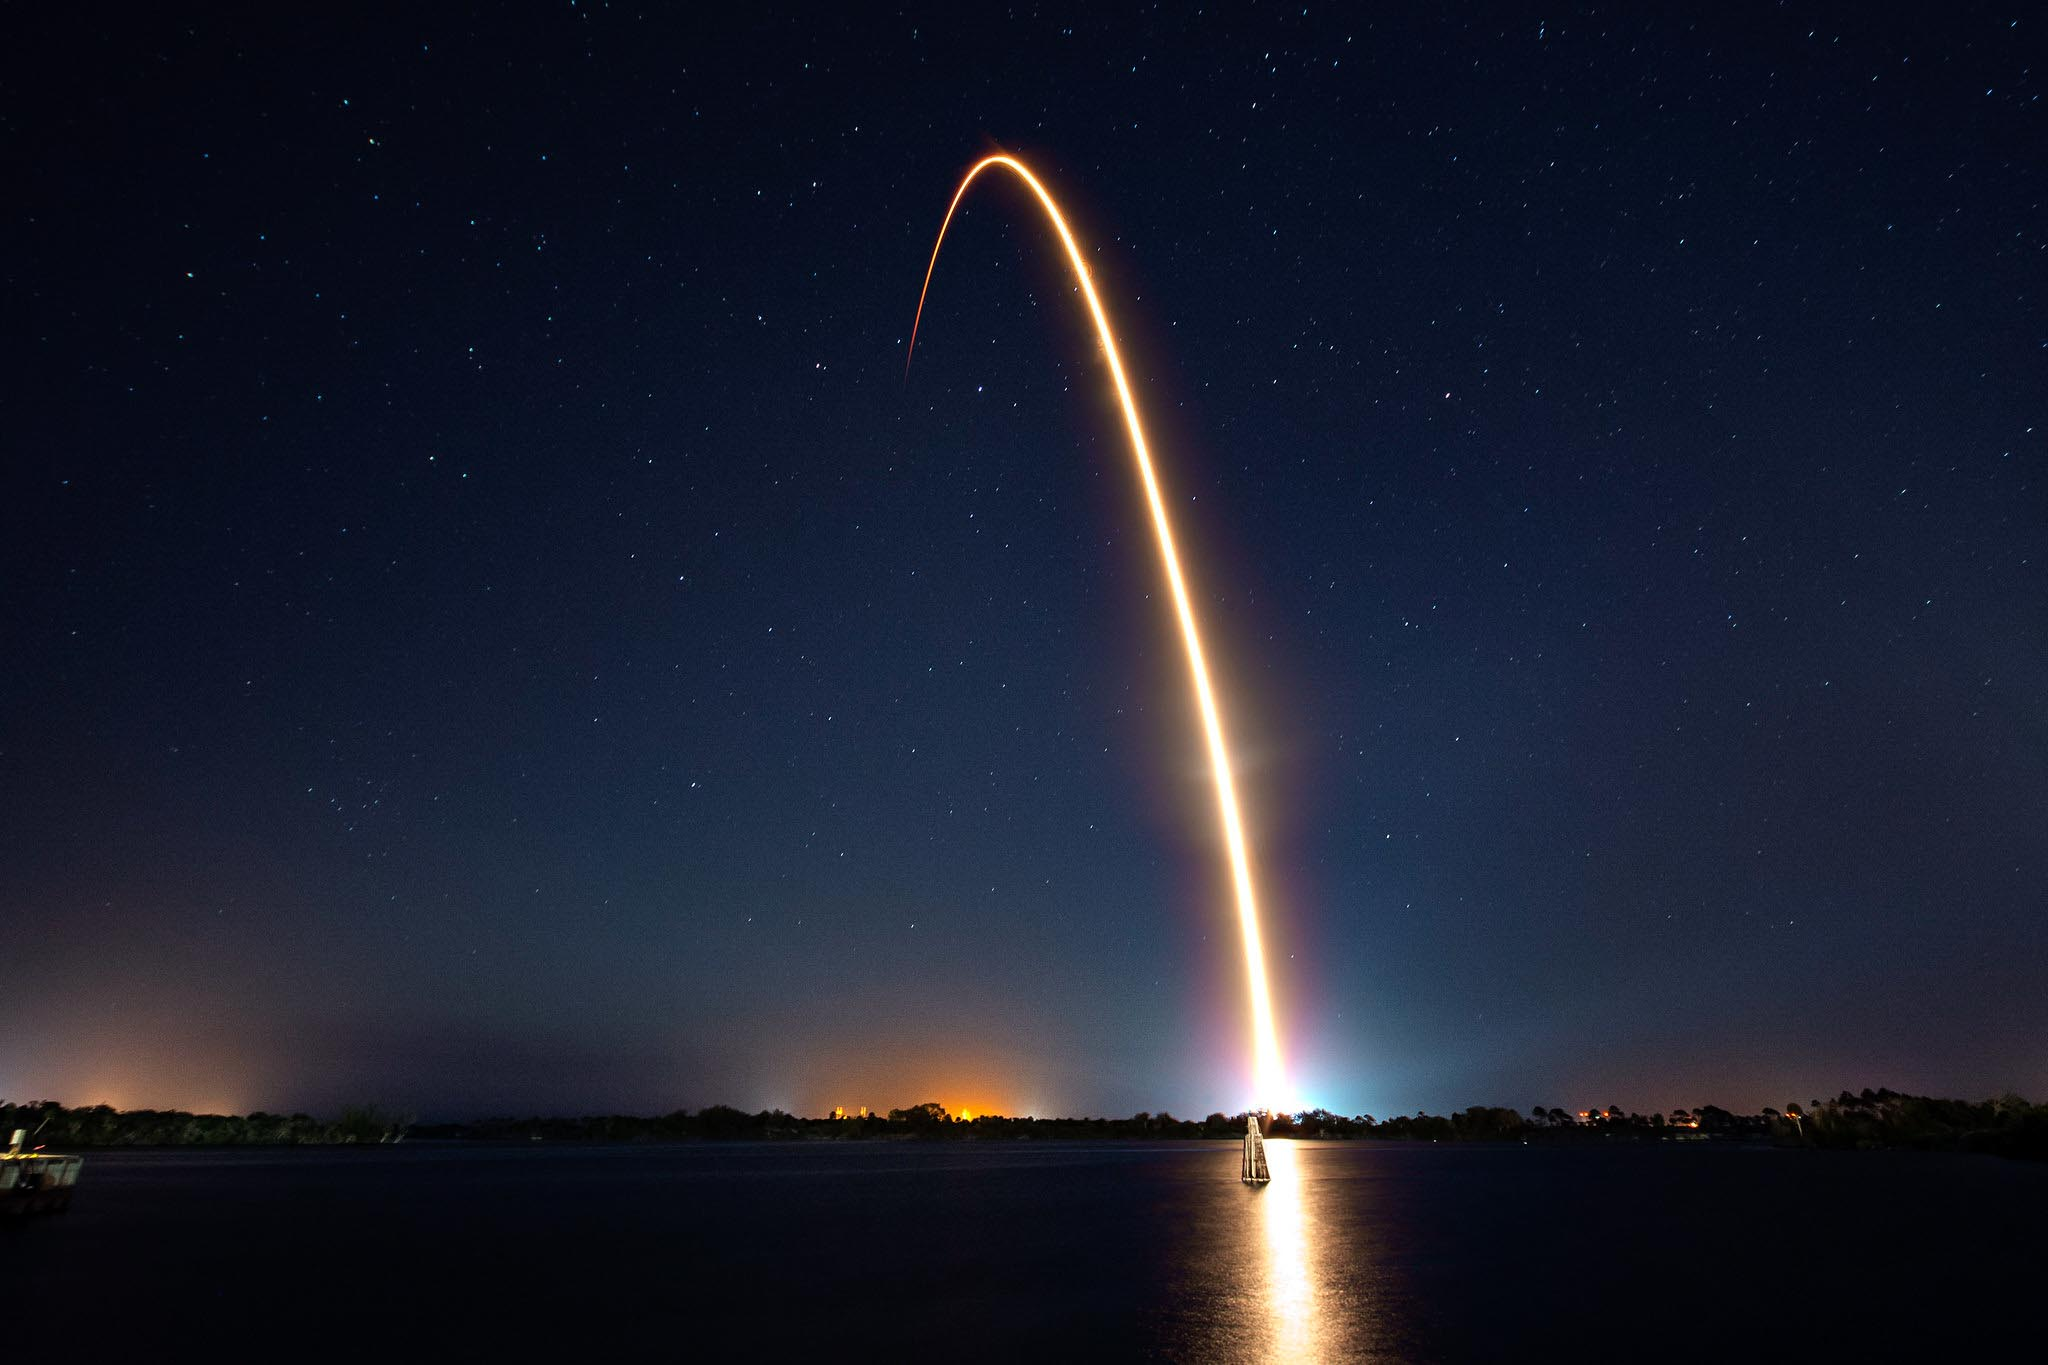
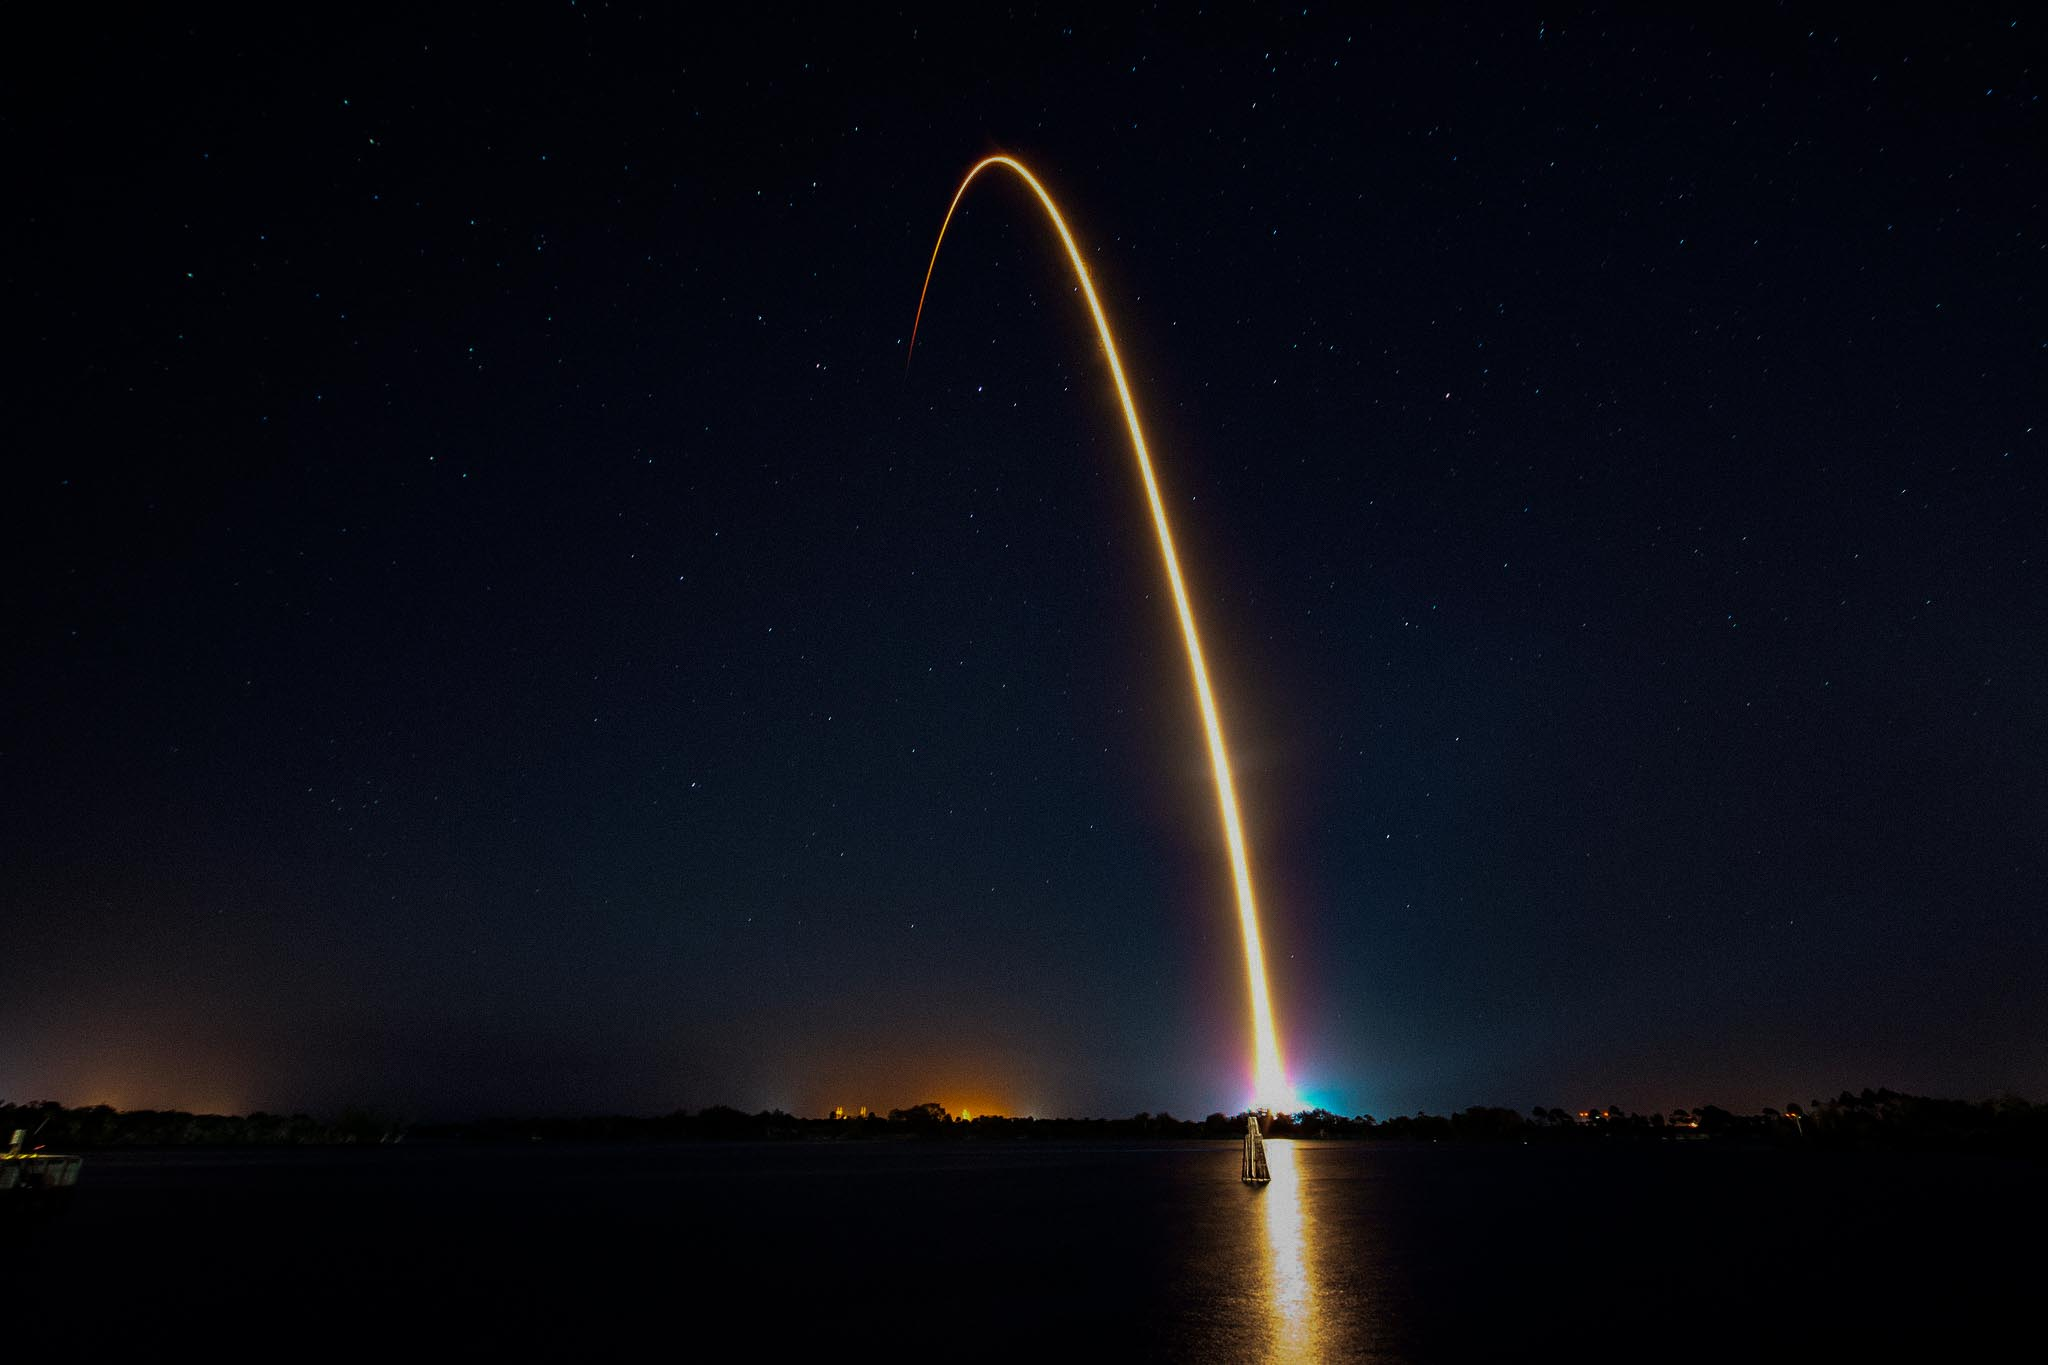
Adjusted background images to be darker

diff --git a/src/styles/history.css b/src/styles/history.css
@@ -1,8 +1,8 @@
 .history__header {
   width: 100%;
   min-height: 100vh;
-  background-image: url("../../assets/background/spacex-boarding-bridge-large.jpg");
-  /* Image by Official SpaceX Photos on Flickr.com - URL "https://www.flickr.com/photos/spacex/39684491043/" */
+  background-image: url("../../assets/background/starship-large.jpg");
+  /* Image by Official SpaceX Photos on Flickr.com - URL "https://www.flickr.com/photos/spacex/48953946911/" */
   background-position: center;
   display: flex;
   flex-direction: column;
@@ -104,10 +104,6 @@
 }
 
 @media (min-width: 481px) and (max-width: 767px) {
-  .history__header {
-   background-image: url('../../assets/background/spacex-boarding-bridge-small.jpg');
-    background-position: center top;
-  }
   .history__card {
     width: 90%;
   }
@@ -117,10 +113,6 @@
 }
 
 @media (min-width: 320px) and (max-width: 480px) {
-  .history__header {
-    background-image: url('../../assets/background/spacex-boarding-bridge-small.jpg');
-    background-position: center top;
-   }
    .history__header h1 {
     font-size: 3rem;
   }

diff --git a/src/styles/global.css b/src/styles/global.css
@@ -239,7 +239,8 @@ nav {
   animation: arrow-down 2s infinite 0s linear;
 }
 .arrow-down img {
-  width: 30px;
+  width: 25px;
+  opacity: 0.9;
 }
 
 @keyframes arrow-down{
@@ -260,12 +261,6 @@ nav {
   }
 }
 
-@media (min-width: 320px) and (max-width: 480px) {
-  .arrow-down {
-    display: none;
-  }
-}
-
 /* ############################################
 --- <<<     Loading png     >>> ---
 ---############################################ */
@@ -279,7 +274,8 @@ nav {
 }
 
 @keyframes loading-bar {
-  0% { 
+  0% 
+  { 
     background-position: 0px 0px; 
   } 
   50%, 100% { 

diff --git a/src/pages/history.html b/src/pages/history.html
@@ -60,6 +60,6 @@
   <script src="../components/footer.js"></script>
   <script src="../history.js"></script>
 
-  <!-- Header background Image by Official SpaceX Photos on Flickr.com - URL "https://www.flickr.com/photos/spacex/39684491043/" -->
+  <!-- Header background Image by Official SpaceX Photos on Flickr.com - URL "https://www.flickr.com/photos/spacex/48953946911/" -->
 </body>
 </html>
